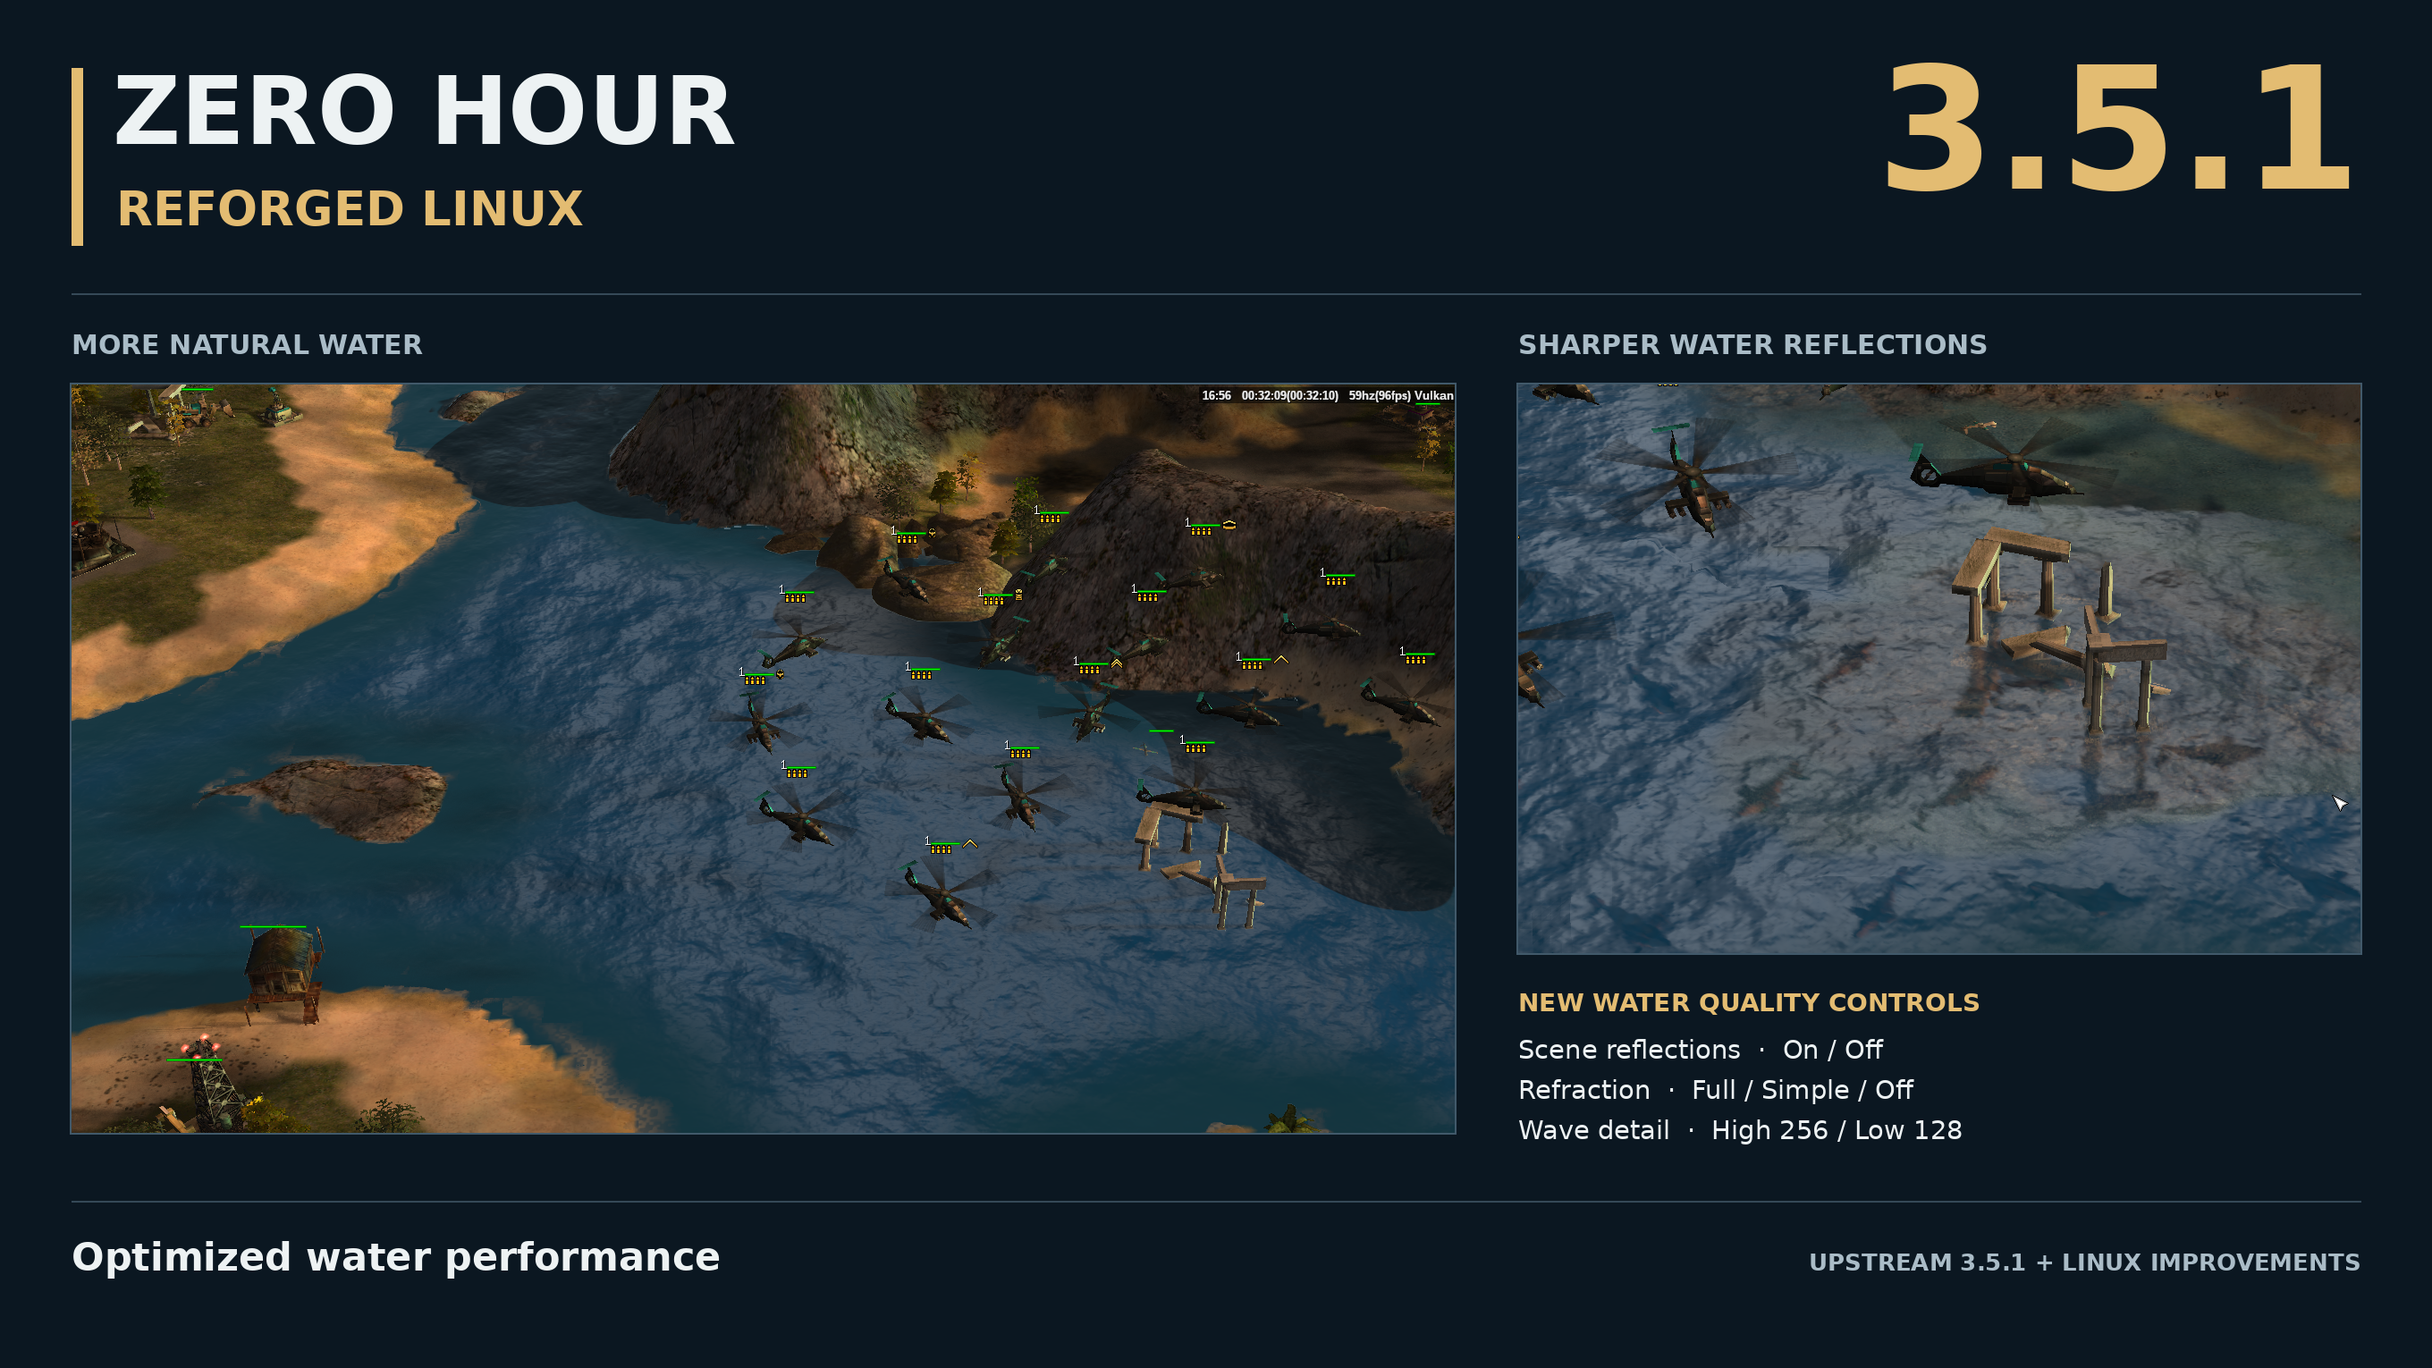
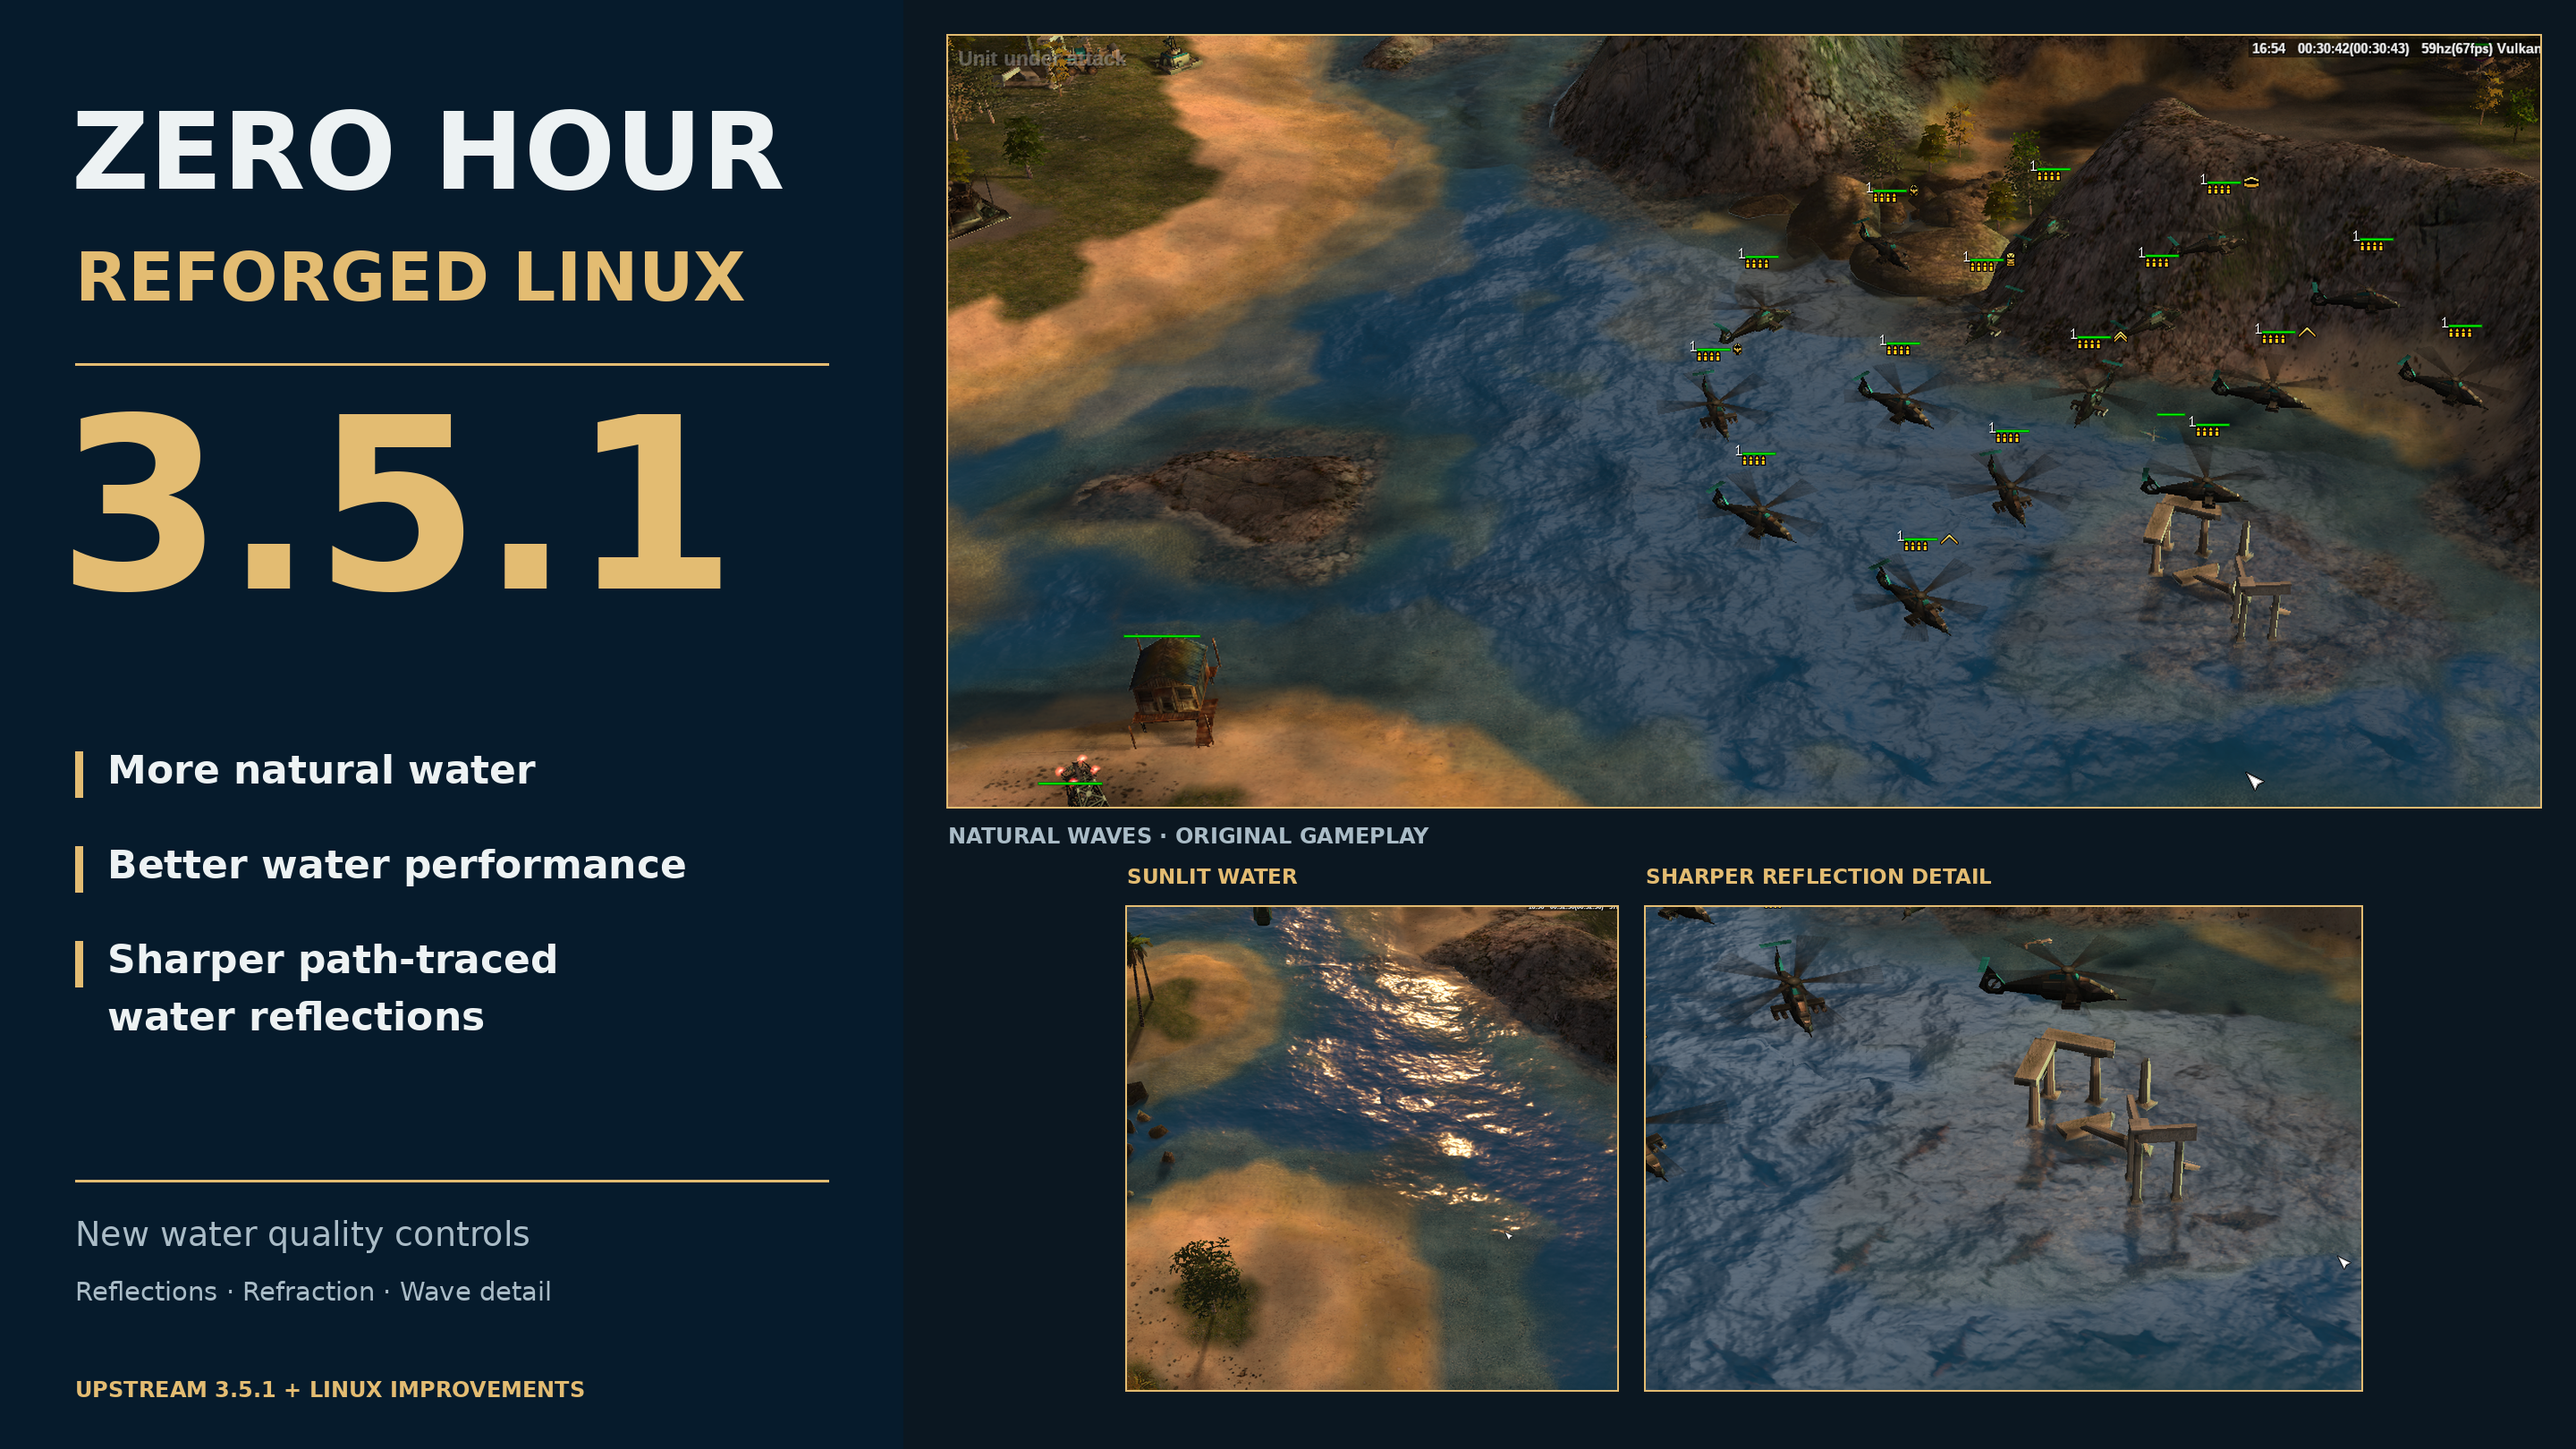
docs(linux): use original captures in the launch poster

diff --git a/.github/scripts/create-v3.5.1-launch.py b/.github/scripts/create-v3.5.1-launch.py
@@ -1,9 +1,9 @@
 #!/usr/bin/env python3
-"""Lay out the 3.5.1 release card without changing screenshot pixels.
+"""Lay out the 3.5.1 release card using only the original gameplay captures.
 
 Requires the already available Pillow and DejaVu Sans fonts. Run from any folder.
-Screenshots are pasted at their native dimensions, with no crop, resampling,
-retouching, colour adjustment, or text over the gameplay.
+Screenshots are proportionally resized to fit, with no cropping, retouching,
+colour adjustment, reconstruction, or text over the gameplay.
 """
 
 from pathlib import Path
@@ -27,53 +27,65 @@ def font(size, bold=False):
 
 
 def main():
-    canvas = Image.new("RGB", (2720, 1530), BACKGROUND)
+    canvas = Image.new("RGB", (2880, 1620), BACKGROUND)
     draw = ImageDraw.Draw(canvas)
 
     def text(x, y, value, size, color=WHITE, bold=False):
         draw.text((x, y), value, font=font(size, bold), fill=color, anchor="lt")
 
-    draw.rectangle((80, 76, 92, 274), fill=GOLD)
-    text(126, 82, "ZERO HOUR", 105, bold=True)
-    text(130, 212, "REFORGED LINUX", 53, color=GOLD, bold=True)
-    draw.text((2640, 70), "3.5.1", font=font(190, True), fill=GOLD, anchor="rt")
-    draw.line((80, 328, 2640, 328), fill="#354957", width=2)
+    draw.rectangle((0, 0, 1009, 1619), fill="#061b2c")
+    text(80, 122, "ZERO HOUR", 120, bold=True)
+    text(84, 280, "REFORGED LINUX", 76, color=GOLD, bold=True)
+    draw.line((84, 407, 926, 407), fill=GOLD, width=3)
+    text(64, 460, "3.5.1", 267, color=GOLD, bold=True)
 
-    text(80, 374, "MORE NATURAL WATER", 30, color=MUTED, bold=True)
-    text(1698, 374, "SHARPER WATER REFLECTIONS", 30, color=MUTED, bold=True)
+    for y in (840, 946, 1052):
+        draw.rectangle((84, y, 92, y + 51), fill=GOLD)
+    text(120, 843, "More natural water", 44, bold=True)
+    text(120, 949, "Better water performance", 44, bold=True)
+    text(120, 1055, "Sharper path-traced", 44, bold=True)
+    text(120, 1119, "water reflections", 44, bold=True)
+    draw.line((84, 1320, 926, 1320), fill=GOLD, width=3)
+    text(84, 1364, "New water quality controls", 38, color=MUTED)
+    text(84, 1432, "Reflections · Refraction · Wave detail", 29, color=MUTED)
+    text(84, 1544, "UPSTREAM 3.5.1 + LINUX IMPROVEMENTS", 24, color=GOLD,
+         bold=True)
 
     panels = [
-        (MEDIA / "v3.5.1-water.png", (80, 430)),
-        (MEDIA / "v3.5.1-reflections.png", (1698, 430)),
+        (MEDIA / "v3.5.1-water.png", (1060, 40), 1780, None),
+        (MEDIA / "v3.5.1-sunlit-water.png", (1260, 1014), None, 540),
+        (MEDIA / "v3.5.1-reflections.png", (1840, 1014), None, 540),
     ]
-    for path, (x, y) in panels:
+    expected_panels = []
+    for path, (x, y), target_width, target_height in panels:
         source = Image.open(path).convert("RGB")
-        width, height = source.size
+        if target_width is not None:
+            size = (target_width, round(source.height * target_width / source.width))
+        else:
+            size = (round(source.width * target_height / source.height), target_height)
+        panel = source.resize(size, Image.Resampling.LANCZOS)
+        width, height = panel.size
         draw.rectangle((x - 2, y - 2, x + width + 1, y + height + 1),
-                       outline="#41596a", width=2)
-        canvas.paste(source, (x, y))
+                       outline=GOLD, width=2)
+        canvas.paste(panel, (x, y))
+        expected_panels.append((path, panel, (x, y)))
 
-    text(1698, 1111, "NEW WATER QUALITY CONTROLS", 28, color=GOLD, bold=True)
-    text(1698, 1162, "Scene reflections  ·  On / Off", 29)
-    text(1698, 1207, "Refraction  ·  Full / Simple / Off", 29)
-    text(1698, 1252, "Wave detail  ·  High 256 / Low 128", 29)
-
-    draw.line((80, 1343, 2640, 1343), fill="#354957", width=2)
-    text(80, 1388, "Optimized water performance", 43, bold=True)
-    draw.text((2640, 1402), "UPSTREAM 3.5.1 + LINUX IMPROVEMENTS",
-              font=font(26, True), fill=MUTED, anchor="rt")
+    text(1060, 925, "NATURAL WAVES · ORIGINAL GAMEPLAY", 24, color=MUTED,
+         bold=True)
+    text(1260, 971, "SUNLIT WATER", 23, color=GOLD, bold=True)
+    text(1840, 971, "SHARPER REFLECTION DETAIL", 23, color=GOLD, bold=True)
 
     output = MEDIA / "v3.5.1-launch.png"
     canvas.save(output, optimize=True)
 
-    # Verify the saved artifact itself, including every original HUD/cursor pixel.
+    # Verify no changes beyond the specified proportional resampling.
     saved = Image.open(output).convert("RGB")
-    for path, (x, y) in panels:
-        source = Image.open(path).convert("RGB")
-        pasted = saved.crop((x, y, x + source.width, y + source.height))
-        if ImageChops.difference(source, pasted).getbbox() is not None:
+    for path, expected, (x, y) in expected_panels:
+        pasted = saved.crop((x, y, x + expected.width, y + expected.height))
+        if ImageChops.difference(expected, pasted).getbbox() is not None:
             raise SystemExit(f"Screenshot pixels changed: {path.name}")
-        print(f"Unchanged screenshot: {path.name}, {source.width}x{source.height}")
+        print(f"Original screenshot, proportional resize only: {path.name}, "
+              f"{expected.width}x{expected.height}")
     print(f"Saved {output} ({saved.width}x{saved.height})")
 
 

diff --git a/docs/releases/v3.5.1-artwork.md b/docs/releases/v3.5.1-artwork.md
@@ -1,15 +1,18 @@
 # 3.5.1 launch artwork
 
-The published launch card uses the user's original screenshots as supplied.
-They are pasted at native resolution with no cropping, scaling, retouching,
-colour changes, HUD removal, overlays over the screenshots, or AI reconstruction.
-The title, version and feature descriptions occupy separate areas of the canvas.
+The published launch card uses the user's original screenshots, proportionally
+resized to fit the layout. There is no cropping, retouching, colour adjustment,
+HUD removal, text over the screenshots, or AI reconstruction. The title, version
+and feature descriptions occupy a separate sidebar, with a main gameplay panel
+and two supporting water and reflection panels.
 
-- `.github/media/releases/v3.5.1-water.png`: supplied screenshot 3,
-  `codex-clipboard-f4b4c9a7-8b33-4112-851e-2fc3124a3d0c.png`.
+- `.github/media/releases/v3.5.1-water.png`: supplied screenshot 1,
+  `codex-clipboard-4b8021aa-f263-482b-9a37-1dcb40430090.png`.
+- `.github/media/releases/v3.5.1-sunlit-water.png`: supplied screenshot 4,
+  `codex-clipboard-c29435a4-2fbb-4b5e-9687-8193f4c94822.png`.
 - `.github/media/releases/v3.5.1-reflections.png`: supplied screenshot 6,
   `codex-clipboard-ea5a98a9-4edb-41ce-97bc-91250ee0a2ff.png`.
-- `.github/media/releases/v3.5.1-launch.png`: final 2720×1530 release card.
+- `.github/media/releases/v3.5.1-launch.png`: final 2880×1620 release card.
 
 Rebuild using the existing Pillow library and system DejaVu Sans fonts:
 
@@ -17,5 +20,6 @@ Rebuild using the existing Pillow library and system DejaVu Sans fonts:
 python3 .github/scripts/create-v3.5.1-launch.py
 ```
 
-The script checks that each screenshot region in the saved PNG is pixel-identical
-to the source. No generated image is included in this release.
+The script checks that each screenshot region in the saved PNG matches the
+proportionally resized original exactly. No generated image is included in this
+release. The unmodified source PNGs are retained alongside the launch card.
